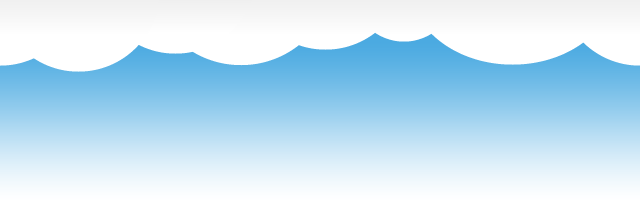
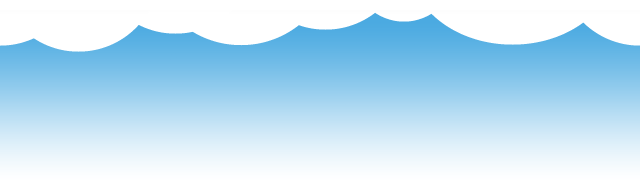
Re-jiggered cloud assets to fit new search area

Changed region(s): [[0.0, 0.0833, 1.0, 0.3611]]

diff --git a/public/stylesheets/screen.css b/public/stylesheets/screen.css
@@ -28,7 +28,7 @@ body {
 }
 
 #sky #flash {
-  background: #f0f0f0;
+  background: #fff;
   text-align: center;
 }
 
@@ -41,28 +41,24 @@ body {
 }
 
 #sky #clouds {
-  height: 200px;
+  height: 180px;
   background: url("/images/bg_clouds.png") repeat-x bottom center;
 }
 
 /* =SEARCH */
 
-#search {
+#in_the_sky {
   overflow: hidden;
-  background: #f0f0f0;
-  padding: 10px 0;
+  background: #fff url("/images/bg_in_the_sky.png") repeat-x top center;
+  padding-top: 20px;
 }
 
-#search input {
+#in_the_sky input {
   width: 100%;
 }
 
-#search .button {
+#in_the_sky .button {
   width: 100px;
-}
-
-#search hr {
-  margin-left: 200px;
 }
 
 /* =LISTING */
@@ -70,7 +66,6 @@ body {
 #listing {
   overflow: hidden;
   position: relative;
-  background: #f0f0f0;
 }
 
 /* =BADGES */
@@ -79,6 +74,10 @@ body {
   position: absolute;
   top: 0;
   right: 0;
+}
+
+#badges a {
+  background: rgba(0, 0, 0, .25)
 }
 /* =HEADER */
 

diff --git a/public/stylesheets/text.css b/public/stylesheets/text.css
@@ -95,6 +95,15 @@ li {
   color: #090;
 }
 
+/* =SEARCH */
+
+#in_the_sky p {
+  margin: 0;
+  font-size: 14px;
+  font-style: italic;
+  color: rgba(0, 0, 0, .75);
+}
+
 /* =NAV */
 
 h2 {
